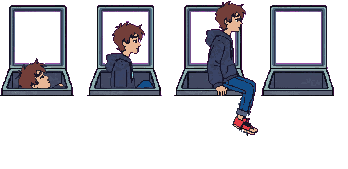
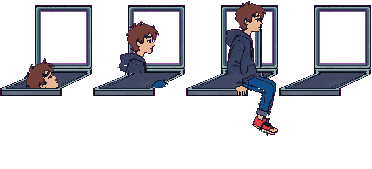
Welt 3: Kapsel-Deckel und Öffnung in der Schrägsicht des Kastens (Deckel steht auf der Hinterkante)

Changed region(s): [[0.0, 0.0, 0.8621, 0.7988], [0.8908, 0.0296, 1.0, 0.5917]]

diff --git a/tools/grafik_w3/kapsel_v02.py b/tools/grafik_w3/kapsel_v02.py
@@ -90,6 +90,57 @@ for nr, f in enumerate(bilder[:3]):
     unten = np.zeros(anders.shape, bool); unten[voll:] = True
     f[unten & ~anders, 3] = 0
 bilder[3][voll:, :, 3] = 0
+
+# Der Kasten im Hintergrund ist schräg von oben gemalt: Deckelfläche vorn y 226 von x 240 bis 301, hinten y 211,5
+# von x 275 bis 331. Gemini malt ihn gerade von vorn. Darum Öffnung und Deckel zeilenweise auf diese Fläche
+# umrechnen (Deckel steht senkrecht auf der Hinterkante) und Max um die halbe Verschiebung mitnehmen.
+VORN_Y, HINTEN_Y = 226.0, 211.5
+VORN, HINTEN = (240, 301), (275, 331)
+MAX_VERSATZ = 8
+ox, oy = KASTEN_LINKS - links_px, OBERKANTE_SPIEL - voll
+B2 = HINTEN[1] - ox + 2
+
+
+def ziel_spanne(y):
+    if y >= VORN_Y:
+        return VORN
+    if y <= HINTEN_Y:
+        return HINTEN
+    t = (VORN_Y - y) / (VORN_Y - HINTEN_Y)
+    return (round(VORN[0] + (HINTEN[0] - VORN[0]) * t), round(VORN[1] + (HINTEN[1] - VORN[1]) * t))
+
+
+kasten = np.zeros((fh, B2, 4), np.uint8)
+for r in range(voll):
+    xs = np.nonzero(leer[r, :, 3])[0]
+    if not len(xs):
+        continue
+    sl, sr = int(xs.min()), int(xs.max())
+    tl, tr = ziel_spanne(r + oy)
+    for x in range(tl, tr + 1):
+        q = sl + round((x - tl) * (sr - sl) / max(1, tr - tl))
+        kasten[r, x - ox] = leer[r, q]
+neu_bilder = []
+for nr, f in enumerate(bilder):
+    g = kasten.copy()
+    if nr < 3:
+        m = (f[..., 3] > 0) & ((leer[..., 3] == 0) | (np.abs(f[..., :3].astype(int) - leer[..., :3].astype(int)).sum(-1) > 30))
+        m[voll:] = f[voll:, :, 3] > 0
+        m[:voll] &= ndimage.binary_dilation(ndimage.binary_opening(m[:voll], iterations=2), iterations=2)   # angehängte Linien
+        lab, n = ndimage.label(m)    # nur große Stücke: Max; schmale Reste vom Gemini-Deckel fallen weg
+        if n:
+            gr = ndimage.sum(m, lab, range(1, n + 1))
+            dick = [min(sl[0].stop - sl[0].start, sl[1].stop - sl[1].start) >= 5 for sl in ndimage.find_objects(lab)]
+            boxen = ndimage.find_objects(lab)
+            gross = boxen[int(np.argmax(gr))]
+            neben = [boxen[k][1].stop > gross[1].start - 2 and boxen[k][1].start < gross[1].stop + 2 for k in range(n)]
+            # Deckelkanten sind dünne Linien oder liegen neben Max (Gemini-Deckel steht in jeder Spalte etwas anders)
+            m = np.isin(lab, [k + 1 for k in range(n) if gr[k] >= 40 and dick[k] and neben[k]])
+        ys, xs = np.nonzero(m)
+        ok = xs + MAX_VERSATZ < B2
+        g[ys[ok], xs[ok] + MAX_VERSATZ] = f[ys[ok], xs[ok]]
+    neu_bilder.append(g)
+bilder, fw = neu_bilder, B2
 Image.fromarray(np.concatenate(bilder, 1)).save(W0 / "game/grafik/ambiente/w3_kapsel_max_v02.png")
-lage = {"bild": [fw, fh], "bilder": 4, "oben_links": [KASTEN_LINKS - links_px, OBERKANTE_SPIEL - voll]}
+lage = {"bild": [fw, fh], "bilder": 4, "oben_links": [ox, oy]}
 print("w3_kapsel_max_v02", json.dumps(lage))
